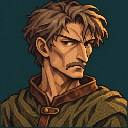
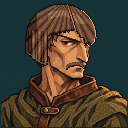
Give Rando a bard's bowl cut with a centre part

Changed region(s): [[0.1562, 0.0, 0.875, 0.5312]]

diff --git a/prepare_larvel_twins.py b/prepare_larvel_twins.py
@@ -6,11 +6,13 @@ Sources stay untouched:
 
 Outputs:
     assets/portraits/larvel-v2.png   same portrait, nose tip softened by a two-pixel bevel
-    assets/portraits/rando.png       Larvel v2 with a hair-matched mustache, facing the other way
+    assets/portraits/rando.png       Larvel v2 with a bard's bowl cut and a hair-matched mustache,
+                                     facing the other way
     assets/rando-overworld.png       Larvel's walk sheet with a two-pixel mustache on face views
 
 Run from the project root:  python prepare_larvel_twins.py
 """
+import math
 from pathlib import Path
 
 import pygame
@@ -72,6 +74,109 @@ def add_mustache(image):
         image.set_at(point, HAIR_GLINT)
 
 
+# Rando's bard bowl cut, in the same facing-left coordinates.
+# The centre part runs from the crown down to the hairline, and the fringe sweeps away from it on both sides.
+PART_TOP, PART_BOT = (60, 4), (52, 29)
+PART_SKIN, PART_SKIN_SHADOW = (196, 128, 78), (150, 92, 58)
+RIM_LIGHT = (240, 170, 92)
+# Face and neck pixels the clean-up of Larvel's loose strands must leave alone.
+FACE_KEEP = ((39, 30), (38, 46), (40, 52), (36, 58), (38, 64), (42, 68), (43, 78), (92, 78), (92, 30))
+
+
+def _part_x(y):
+    t = (y - PART_TOP[1]) / (PART_BOT[1] - PART_TOP[1])
+    return PART_TOP[0] + (PART_BOT[0] - PART_TOP[0]) * t
+
+
+def _fringe(x):
+    """Lowest hair row in column x."""
+    if x < 37:
+        return 45                             # far temple lock
+    if x <= 43:
+        return 44
+    if x <= 52:
+        return 30 + (52 - x) * 14 / 9         # curtain sweeping from the part to the far temple
+    if x <= 79:
+        return 30 + (x - 52) * 0.22           # near fringe, just above the brow
+    return 65                                 # side panel hangs past the ear
+
+
+def _in_bowl(x, y):
+    # Feathered tips: every few columns a lock ends a pixel short.
+    if y > _fringe(x) - (x % 4 == 1) - (x % 7 == 3):
+        return False
+    if y < 38:
+        return ((x - 66) / 36) ** 2 + ((y - 37) / 34) ** 2 <= 1
+    if x <= 43:
+        return 32 <= x and (y < 42 or x >= 33 + (y - 42))
+    if x >= 79:
+        return x <= 102 - max(0, y - 53) * 1.3  # rounded back corner
+    return False
+
+
+def _in_polygon(x, y, poly):
+    inside, j = False, len(poly) - 1
+    for i, (xi, yi) in enumerate(poly):
+        xj, yj = poly[j]
+        if (yi > y) != (yj > y) and x < (xj - xi) * (y - yi) / (yj - yi) + xi:
+            inside = not inside
+        j = i
+    return inside
+
+
+def bowl_cut(image):
+    """Replace Larvel's tousled hair with a bard's bowl cut parted in the middle."""
+    width = image.get_width()
+    hair = {(x, y) for y in range(72) for x in range(width) if _in_bowl(x, y)}
+    # Clear the old strands outside the new shape, reusing the backdrop texture from the left columns.
+    for y in range(74):
+        for x in range(width):
+            if (x, y) not in hair and not _in_polygon(x, y, FACE_KEEP):
+                image.set_at((x, y), image.get_at((x % 8, y)))
+    ramp = (HAIR_DARK, HAIR_SHADOW, HAIR_MID, HAIR_LIGHT, HAIR_GLINT)
+    for x, y in sorted(hair):
+        part = _part_x(y) if y <= PART_BOT[1] else None
+        if part is not None and abs(x - part) < .6:
+            image.set_at((x, y), PART_SKIN_SHADOW if y < 8 else PART_SKIN)
+            continue
+        if any((x + dx, y + dy) not in hair for dx, dy in ((1, 0), (-1, 0), (0, 1), (0, -1))):
+            image.set_at((x, y), OUTLINE)
+            continue
+        # Strands fall away from the part, combed outward on each side.
+        side = -1 if x < (part if part is not None else 52) else 1
+        angle = math.atan2(y - PART_TOP[1] + 6, (x - PART_TOP[0]) * side)
+        strand = int(angle * 22 + (0 if side < 0 else 3)) % 4
+        # Key light from the upper left: a sheen band around the dome, darker at the fringe and back.
+        r = math.hypot((x - 66) / 36, (y - 37) / 34)
+        shade = 2
+        if x > 90 or y > _fringe(x) - 3:
+            shade = 1
+        if y > _fringe(x) - 1.5 or (x > 79 and y > 60):
+            shade = 0
+        if .62 < r < .80 and x < 80 and y < 24:
+            shade = 3
+        if x >= 79 and y > 30:  # side panel: straight locks falling to a curled-under end
+            shade = (1, 2, 1, 2, 3, 2)[x % 6] if x < 96 else (0, 1, 1)[x % 3]
+            if y > 60:
+                shade = max(0, shade - 1)
+        if part is not None and abs(x - part) < 1.6:
+            shade = min(shade, 1)  # shadow lining the part
+        if strand == 0:
+            shade = max(0, shade - 1)
+        if strand == 2 and shade >= 2:
+            shade += 1
+        image.set_at((x, y), ramp[min(shade, 4)])
+    # Warm rim light down the far edge, matching the light on his profile.
+    for x, y in sorted(hair):
+        if (x - 1, y) not in hair and (x + 1, y) in hair and 6 < y and x < 46:
+            image.set_at((x + 1, y), RIM_LIGHT)
+    # Curled-under ends: a light row just above the dark bottom edge of the side panel.
+    for x in range(80, 101):
+        rows = [y for y in range(40, 72) if (x, y) in hair]
+        if rows:
+            image.set_at((x, max(rows) - 2), HAIR_LIGHT)
+
+
 def mustache_sprite(sheet):
     """Turn the lowest row of pale chin pixels into a mustache on each face view.
 
@@ -98,6 +203,7 @@ def main():
     pygame.image.save(larvel, str(PORTRAITS / "larvel-v2.png"))
 
     rando = larvel.copy()
+    bowl_cut(rando)
     add_mustache(rando)
     pygame.image.save(pygame.transform.flip(rando, True, False), str(PORTRAITS / "rando.png"))
 

diff --git a/assets/mine-polish/art-notes.md b/assets/mine-polish/art-notes.md
@@ -51,5 +51,5 @@ Built-in ImageGen used Theo’s current portrait and the four directional overwo
 `prepare_larvel_twins.py` builds three files from Larvel's original art, which it leaves untouched (`assets/portraits/larvel.png`, `assets/larvel-overworld.png`):
 
 - `assets/portraits/larvel-v2.png`: the game's Larvel portrait. Same image with the sharp lower corner of the nose tip rounded off by a small bevel.
-- `assets/portraits/rando.png`: Larvel's twin. Larvel v2 with a bushy mustache in Larvel's own hair ramp, parted at the centre with drooping ends, then flipped so he faces the other way.
+- `assets/portraits/rando.png`: Larvel's twin. Larvel v2 with his tousled hair swapped for a bard's bowl cut (smooth dome, centre part from crown to hairline, fringe combed away from the part, side panel curled under past the ear) and a bushy mustache, both in Larvel's own hair ramp, then flipped so he faces the other way.
 - `assets/rando-overworld.png`: Larvel's walk sheet with the pale chin pixels on the front and side views turned into a two-pixel mustache. The lantern glow is left alone.
